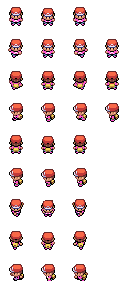
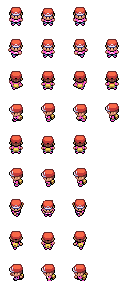
Change to enum class + update texture

Changed region(s): [[0.5625, 0.3438, 0.6875, 0.4375], [0.0625, 0.3438, 0.1875, 0.4375]]

diff --git a/Delta-dungeons/Engine/InputWrapper.cpp b/Delta-dungeons/Engine/InputWrapper.cpp
@@ -17,7 +17,7 @@ void InputWrapper::handleInput()
 			handleKeyPressed();
 			break;
 		case SDL_QUIT:
-			func(pointer, KEY_ESC, KEY_PRESSED);
+			func(pointer, KeyCodes::KEY_ESC, KeyboardEvent::KEY_PRESSED);
 			break;
 		case SDL_KEYUP:
 			handleKeyReleased();
@@ -32,34 +32,34 @@ void InputWrapper::handleKeyPressed()
 	switch (event.key.keysym.sym)
 	{
 	case SDLK_UP:
-		func(pointer, KEY_UP, KEY_PRESSED);
+		func(pointer, KeyCodes::KEY_UP, KeyboardEvent::KEY_PRESSED);
 		break;
 	case SDLK_DOWN:
-		func(pointer, KEY_DOWN, KEY_PRESSED);
+		func(pointer, KeyCodes::KEY_DOWN, KeyboardEvent::KEY_PRESSED);
 		break;
 	case SDLK_LEFT:
-		func(pointer, KEY_LEFT, KEY_PRESSED);
+		func(pointer, KeyCodes::KEY_LEFT, KeyboardEvent::KEY_PRESSED);
 		break;
 	case SDLK_RIGHT:
-		func(pointer, KEY_RIGHT, KEY_PRESSED);
+		func(pointer, KeyCodes::KEY_RIGHT, KeyboardEvent::KEY_PRESSED);
 		break;
 	case SDLK_w:
-		func(pointer, KEY_W, KEY_PRESSED);
+		func(pointer, KeyCodes::KEY_W, KeyboardEvent::KEY_PRESSED);
 		break;
 	case SDLK_a:
-		func(pointer, KEY_A, KEY_PRESSED);
+		func(pointer, KeyCodes::KEY_A, KeyboardEvent::KEY_PRESSED);
 		break;
 	case SDLK_s:
-		func(pointer, KEY_S, KEY_PRESSED);
+		func(pointer, KeyCodes::KEY_S, KeyboardEvent::KEY_PRESSED);
 		break;
 	case SDLK_d:
-		func(pointer, KEY_D, KEY_PRESSED);
+		func(pointer, KeyCodes::KEY_D, KeyboardEvent::KEY_PRESSED);
 		break;
 	case SDLK_q:
-		func(pointer, KEY_Q, KEY_PRESSED);
+		func(pointer, KeyCodes::KEY_Q, KeyboardEvent::KEY_PRESSED);
 		break;
 	case SDLK_e:
-		func(pointer, KEY_E, KEY_PRESSED);
+		func(pointer, KeyCodes::KEY_E, KeyboardEvent::KEY_PRESSED);
 		break;
 	default:
 		break;
@@ -71,34 +71,34 @@ void InputWrapper::handleKeyReleased()
 	switch (event.key.keysym.sym)
 	{
 	case SDLK_UP:
-		func(pointer, KEY_UP, KEY_RELEASED);
+		func(pointer, KeyCodes::KEY_UP, KeyboardEvent::KEY_RELEASED);
 		break;
 	case SDLK_DOWN:
-		func(pointer, KEY_DOWN, KEY_RELEASED);
+		func(pointer, KeyCodes::KEY_DOWN, KeyboardEvent::KEY_RELEASED);
 		break;
 	case SDLK_LEFT:
-		func(pointer, KEY_LEFT, KEY_RELEASED);
+		func(pointer, KeyCodes::KEY_LEFT, KeyboardEvent::KEY_RELEASED);
 		break;
 	case SDLK_RIGHT:
-		func(pointer, KEY_RIGHT, KEY_RELEASED);
+		func(pointer, KeyCodes::KEY_RIGHT, KeyboardEvent::KEY_RELEASED);
 		break;
 	case SDLK_w:
-		func(pointer, KEY_W, KEY_RELEASED);
+		func(pointer, KeyCodes::KEY_W, KeyboardEvent::KEY_RELEASED);
 		break;
 	case SDLK_a:
-		func(pointer, KEY_A, KEY_RELEASED);
+		func(pointer, KeyCodes::KEY_A, KeyboardEvent::KEY_RELEASED);
 		break;
 	case SDLK_s:
-		func(pointer, KEY_S, KEY_RELEASED);
+		func(pointer, KeyCodes::KEY_S, KeyboardEvent::KEY_RELEASED);
 		break;
 	case SDLK_d:
-		func(pointer, KEY_D, KEY_RELEASED);
+		func(pointer, KeyCodes::KEY_D, KeyboardEvent::KEY_RELEASED);
 		break;
 	case SDLK_q:
-		func(pointer, KEY_Q, KEY_RELEASED);
+		func(pointer, KeyCodes::KEY_Q, KeyboardEvent::KEY_RELEASED);
 		break;
 	case SDLK_e:
-		func(pointer, KEY_E, KEY_RELEASED);
+		func(pointer, KeyCodes::KEY_E, KeyboardEvent::KEY_RELEASED);
 		break;
 	default:
 		break;

diff --git a/Delta-dungeons/Engine/GraphicsComponent.cpp b/Delta-dungeons/Engine/GraphicsComponent.cpp
@@ -6,50 +6,56 @@ GraphicsComponent::~GraphicsComponent() {};
 
 void GraphicsComponent::playAnimation(AnimTypes animationType, AnimFlip flipS) 
 {
+	/// <summary>
+	/// 
+	/// </summary>
+	/// <param name="animationType"></param>
+	/// <param name="flipS"></param>
+	
 	animSpeed = 200;
 	animated = true;
 	flipped = false;
 
-	if (flipS == FLIP)
+	if (flipS == AnimFlip::FLIP)
 	{
 		flipped = true;
 	}
 
 	switch (animationType)
 	{
-	case IDLE_FRONT:
+	case AnimTypes::IDLE_FRONT:
 		animRow = 0;
 		animFrames = 3;
 		break;
-	case IDLE_BACK:
+	case AnimTypes::IDLE_BACK:
 		animRow = 4;
 		animFrames = 3;
 		break;
-	case IDLE_SIDE:
+	case AnimTypes::IDLE_SIDE:
 		animRow = 5;
 		animFrames = 3;
 		break;
-	case WALK_FRONT:
+	case AnimTypes::WALK_FRONT:
 		animRow = 1;
 		animFrames = 4;
 		break;
-	case WALK_BACK:
+	case AnimTypes::WALK_BACK:
 		animRow = 2;
 		animFrames = 4;
 		break;
-	case WALK_SIDE:
+	case AnimTypes::WALK_SIDE:
 		animRow = 3;
 		animFrames = 4;
 		break;
-	case RUN_FRONT:
+	case AnimTypes::RUN_FRONT:
 		animRow = 6;
 		animFrames = 3;
 		break;
-	case RUN_BACK:
+	case AnimTypes::RUN_BACK:
 		animRow = 7;
 		animFrames = 3;
 		break;
-	case RUN_SIDE:
+	case AnimTypes::RUN_SIDE:
 		animRow = 8;
 		animFrames = 3;
 		break;

diff --git a/Delta-dungeons/Delta-dungeons/Player.h b/Delta-dungeons/Delta-dungeons/Player.h
@@ -7,11 +7,10 @@
 
 class Player : public GameObject {
 public:
-	Player();
-	Player(std::string texture, std::shared_ptr<GraphicsComponent> gc);
-	~Player();
-
 	std::map<std::string, std::string> textures;
+
+	Player();
+	~Player();
 
 	void handleInput(const KeyCodes keyCodes, const KeyboardEvent keyboardEvent) override;
 	void addEquipment(std::shared_ptr<IEquipment> equipment);
@@ -23,6 +22,7 @@ public:
 	void callbackFunction() override;
 	void connectCallback() override;
 	void update() override;
+
 private:
 	int health;
 	int amountCaught;

diff --git a/Delta-dungeons/Delta-dungeons/PlayerManager.cpp b/Delta-dungeons/Delta-dungeons/PlayerManager.cpp
@@ -1,5 +1,8 @@
-
 #include "PlayerManager.h"
+
+/// <summary>
+/// This is a manager class for the player in which the Player is created and the texture is stored.
+/// </summary>
 
 PlayerManager::PlayerManager()
 {

diff --git a/Delta-dungeons/Engine/Keyboardevent.h b/Delta-dungeons/Engine/Keyboardevent.h
@@ -1,6 +1,6 @@
 #pragma once
 
-enum KeyboardEvent {
+enum class KeyboardEvent {
 	KEY_PRESSED,
 	KEY_RELEASED
 };

diff --git a/Delta-dungeons/Engine/AnimTypes.h b/Delta-dungeons/Engine/AnimTypes.h
@@ -1,6 +1,6 @@
 #pragma once
 
-enum AnimTypes {
+enum class AnimTypes {
 	IDLE_FRONT,
 	IDLE_BACK,
 	IDLE_SIDE,

diff --git a/Delta-dungeons/Engine/Keycodes.h b/Delta-dungeons/Engine/Keycodes.h
@@ -1,6 +1,6 @@
 #pragma once
 
-enum KeyCodes {
+enum class KeyCodes {
 	KEY_UP,
 	KEY_DOWN,
 	KEY_LEFT,

diff --git a/Delta-dungeons/Engine/AnimFlip.h b/Delta-dungeons/Engine/AnimFlip.h
@@ -1,6 +1,6 @@
 #pragma once
 
-enum AnimFlip {
+enum class AnimFlip {
 	FLIP,
 	NO_FLIP
 };
